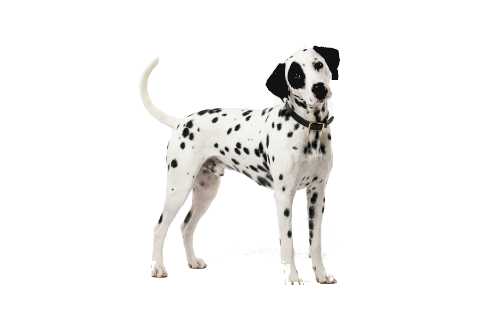
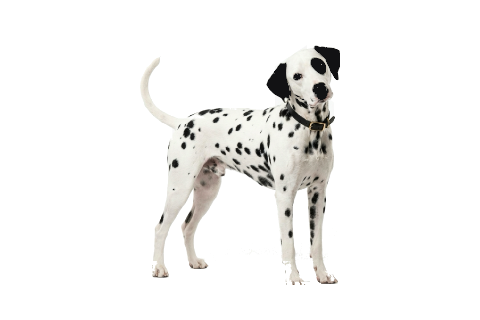
Fix Patch tilt pose: ensure left eye has pure white fur (no patch) and patch is on right eye

diff --git a/assets/js/dalmatian-guardians.js b/assets/js/dalmatian-guardians.js
@@ -36,7 +36,7 @@
       this.lastTimestamp = 0;
 
       // Cache buster for ultra-clear high-DPI assets
-      const v = 'v=crystal_clear_patch_facing_v19';
+      const v = 'v=crystal_clear_patch_eye_v20';
 
       // Load 6-frame running sequences
       // Patch has anatomically separate sequences: right-facing (right eye patch) and left-facing (no eye patch)
